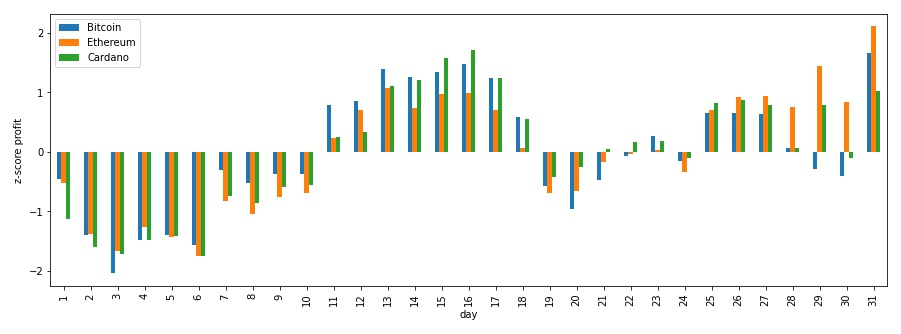
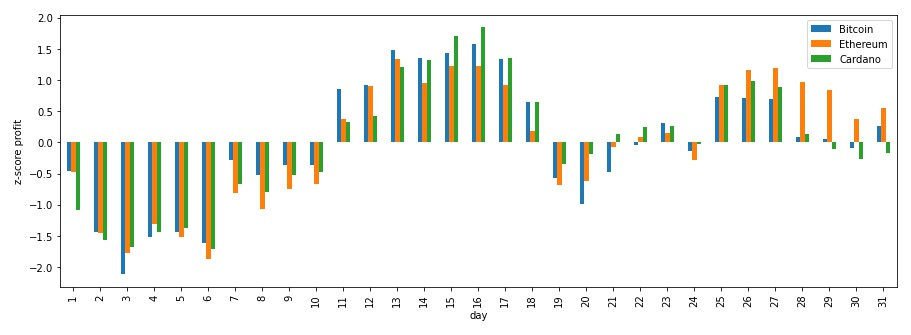
deal with different number of days in months and leap years

diff --git a/README.md b/README.md
@@ -10,7 +10,8 @@ The dataset used for this analysis has been obtained from [Kaggle](https://www.k
 
 **Assumptions**
 
-The dataset provided the highest and lowest price for a coin on each day. We only considered the highest price in our analysis. In this way we assumed to operate in the worst case scenario where we buy for the highest price of that day.
+* The dataset provided the highest and lowest price for a coin on each day. We only considered the highest price in our analysis. In this way we assumed to operate in the worst case scenario where we buy for the highest price of that day.
+* When selecting the day of the month to invest on, we had to deal with months having different number of days. We therefore acted as following: when we worked with the 31st or 30th, we selected the last day of the month for all the months not presenting the number of day under consideration (i.e. February having only 28 days or 29 in leap years).
 
 ### Analysis and results
 
@@ -24,10 +25,9 @@ Which frequency has been the most profitable to implement, for a DCA (Dollar Cos
 
 The considered coins were: [BTC](https://bitcoin.org/da/) and [ETH](https://ethereum.org/en/). 
 
-In both cases we observed that the monthly DCA has provided both the highest and lowest profits. Whereas the weekly frequency has provided the lowest standard deviation for profits over the different days of the week, but also a lower maximum profit.
+In both cases we observed that the monthly DCA has provided both the highest and lowest profits. Twice-a-month frequency is able to provide profits close to the monthly ones (in some cases even slightly outeperforming them), but with a lower standard deviation over the different days of the month, hence more consistent results. Whereas the weekly frequency has provided the lowest standard deviation for profits over the different days of the week, but also a lower minimum profit.
 
-We therefore concluded that the best approach for those aiming at maximising the profit is the monthly frequency, as long as the right day in the month is picked to invest, since the risk is to lower the profit if the wrong day is picked.
-For a more stable profit, weekly seems to provide more constant profits, regardless of the days on which the investment is made.
+We therefore concluded that the best approach for those aiming at maximising the profit should use a twice-a-month approach. It has shown to provide similar maximum profits, compared to the monthly frequency, but with a lower standard deviation, which means less sensible to variations given the day chose to invest on. For a more stable profit, weekly seems to provide more constant profits, regardless of the days on which the investment is made. Nevertheless, the maximum profit obtained with the weekly frequency is lower than the other approaches.
 
 For the complete analysis see [notebook](./notebooks/frequency_DCA.ipynb)
 
@@ -49,7 +49,7 @@ In case of a monthly DCA, what was the day of the month that historically provid
 
 **Answer**
 
-It turned out that for a portfolio with 50% [BTC](https://bitcoin.org/da/), 40% [ETH](https://ethereum.org/en/) and 10% [ADA](https://cardano.org/) the day of month providing the highest profit was the <ins>31st</ins>.
+It turned out that for a portfolio with 50% [BTC](https://bitcoin.org/da/), 40% [ETH](https://ethereum.org/en/) and 10% [ADA](https://cardano.org/) the day of month providing the highest profit was the <ins>16th</ins>.
 
 
 ![Screenshot](images/monthly.jpeg)
